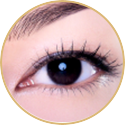
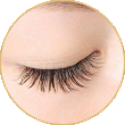
them click to call action, thay hinh border tron css

diff --git a/Zaloka/css/style.css b/Zaloka/css/style.css
@@ -646,3 +646,10 @@ footer ul {
 #formdangky3{
     display:none;
 }
+
+.hinhtron{
+    border-color: #DDBC7F;
+    border-style: solid;
+    border-radius: 50%;
+    border-width: thin;
+}
